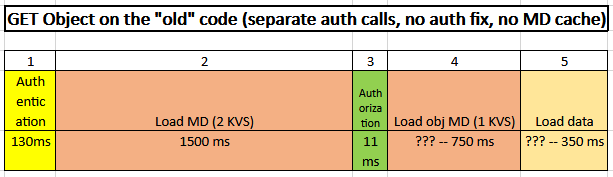
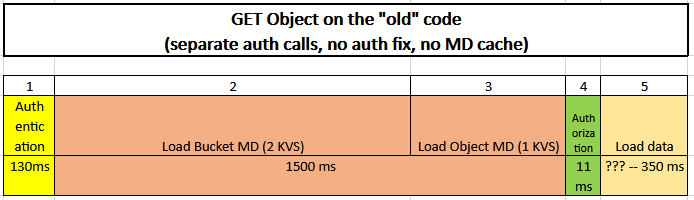
EOS-16658: Fix error in the timelines for 'parallel-auth' experiment results (#68)

diff --git a/S3/parallel-auth/README.md b/S3/parallel-auth/README.md
@@ -223,22 +223,24 @@ experiment:
   change, these two will reduce first auth call to the same time as the 2nd call
   (130 -> 11).
 * "Combined auth call" -- two auth calls are combined into single call.
-  Pre-requisite is loading bucket metadata (2 KVS calls).
+  Pre-requisite is loading bucket metadata (2 KVS calls) and object metadata (1
+  KVS call).
 
 There is also 4th change in plan this PI:
 
 * Using in-memory cache for bucket metadata, so 2 KVS calls at the beginning of
-  the timeline will only be needed to initialize and refresh the cache.
+  the timeline will only be needed once in N seconds -- to initialize and
+  refresh the cache.
 
 Resulting timeline:
 
 ![Timeline New](timeline-with-new-code.png)
 
 With this new timeline we still have the opportunity to run things in parallel
--- steps 3 and 4 (auth call and loading object metadata, and loading data if
-metadata load completes faster than auth).  But this will now bring only minor
-improvement: 11ms out of total time of hundreds of milliseconds.
+-- steps 4 and 5 (combined auth call and loading object data).  But this will
+now bring only minor improvement: 11ms out of total time of hundreds of
+milliseconds.
 
-NOTE: time length of steps 4 and 5 are only approximations, and we need more
-test data to get their current values with latest code.  This is currently in
-progress in this PI.
+NOTE: time length of steps on  this timeline are only approximations, and we
+need more test data to get their current values with latest code.  This is
+currently in progress in this PI.
